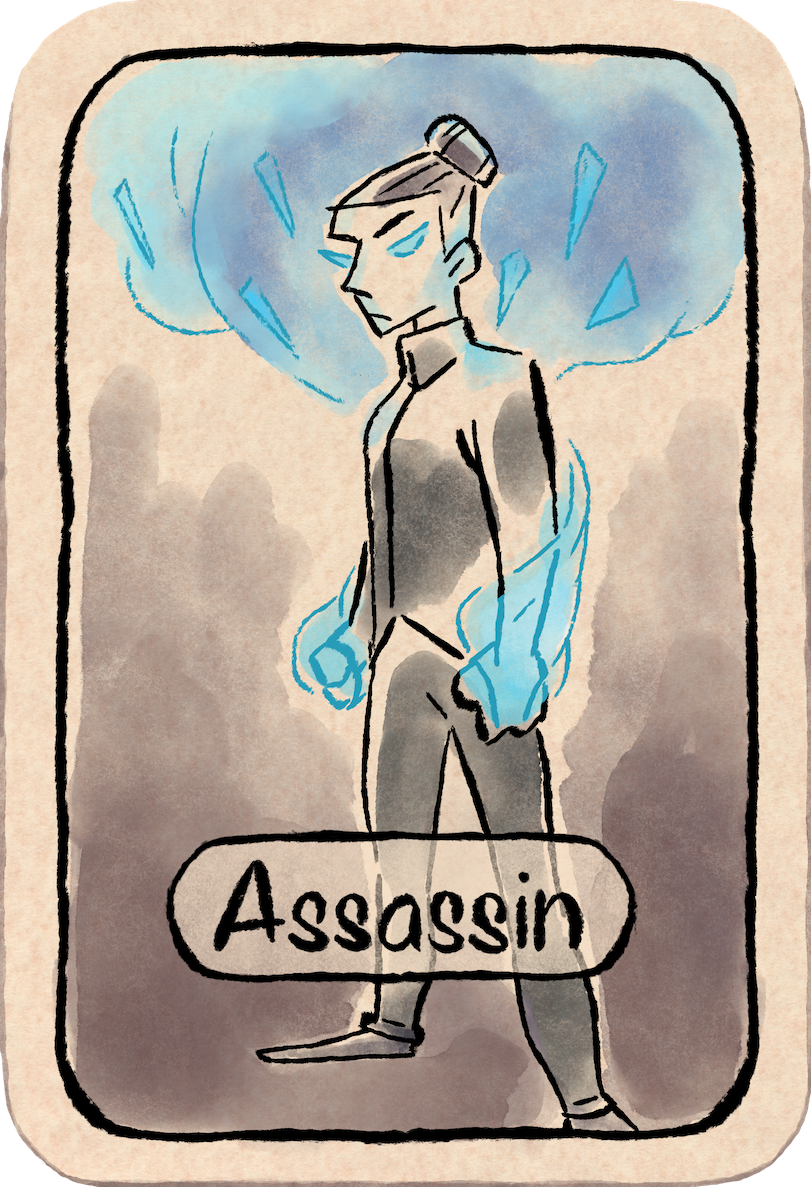
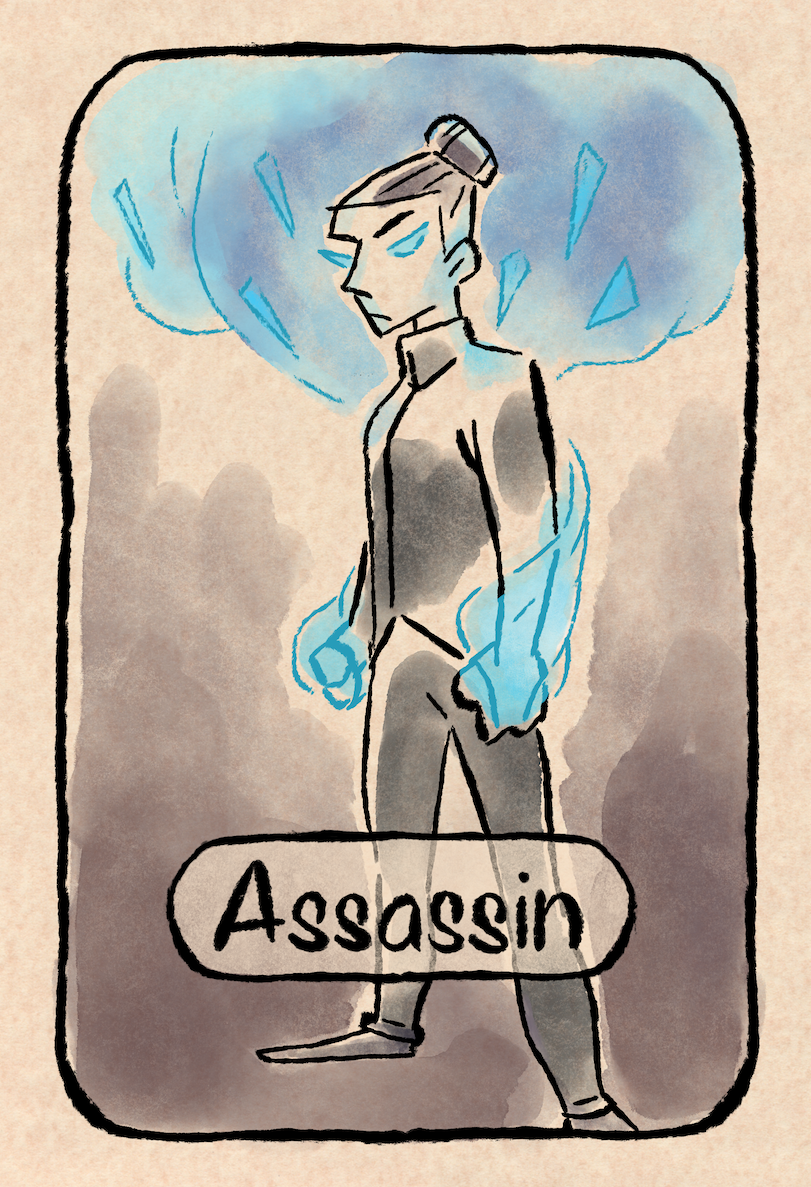
switched from ~hand cropped~ cards to using border radius

Changed region(s): [[0.0, 0.0, 1.0, 1.0]]

diff --git a/client/src/components/Opponent.svelte b/client/src/components/Opponent.svelte
@@ -51,10 +51,10 @@
         <div id="container">
             <div id="assets">
                 {#each Array($opponents[name].cards) as _, i (i)}
-                    <img transition:fade animate:flip src="/assets/cards/back.png" alt="card back" style="--num-images: {Array($opponents[name].cards).length + $opponents[name].revealed_cards.length};">
+                    <img class="card" transition:fade animate:flip src="/assets/cards/back.png" alt="card back" style="--num-images: {Array($opponents[name].cards).length + $opponents[name].revealed_cards.length};">
                 {/each}
                 {#each $opponents[name].revealed_cards as card, i (i)}
-                    <img transition:fade animate:flip src="/assets/cards/{card}.png" alt="{card}" style="--num-images: {Array($opponents[name].cards).length + $opponents[name].revealed_cards.length};">
+                    <img class="card" transition:fade animate:flip src="/assets/cards/{card}.png" alt="{card}" style="--num-images: {Array($opponents[name].cards).length + $opponents[name].revealed_cards.length};">
                 {/each}
                 <img class="coins" src="/assets/coins/{$opponents[name].coins}.png" alt="{$opponents[name].coins} coins">
             </div>
@@ -180,9 +180,15 @@
     }
 
     img {
-        padding: .5vw;
+        margin: .5vw;
         max-width: calc(80% / var(--num-images));
         max-height: 170px;
+    }
+
+    .card {
+        border-radius: 20px;
+        border: 1px solid rgba(181, 163, 149, 0.8);
+        border-bottom: 2px solid rgba(181, 163, 149, 0.8);
     }
 
     @media (max-aspect-ratio: 6/8) {

diff --git a/client/src/pages/Game.svelte b/client/src/pages/Game.svelte
@@ -411,10 +411,10 @@
 			<h2>{$player.name}</h2>
 			<hr>
 			{#each $player.cards as card, i (i)} 
-				<img transition:fade animate:flip src="/assets/cards/{card}.png" alt="{card}">
+				<img class="card" transition:fade animate:flip src="/assets/cards/{card}.png" alt="{card}">
 			{/each}
 			{#each $player.lost_cards as card, i (i)} 
-				<img transition:fade animate:flip src="/assets/cards/{card}.png" alt="{card}" style="opacity: .5;">
+				<img class="card" transition:fade animate:flip src="/assets/cards/{card}.png" alt="{card}" style="opacity: .5;">
 			{/each}
 			<img id="coins" src="/assets/coins/{$player.coins}.png" alt="{$player.coins} coins">
 
@@ -461,7 +461,7 @@
 
 	img {
 		max-width: calc(80%/2);
-		padding: .5vw;
+		margin: .5vw;
 	}
 
 	hr {
@@ -554,6 +554,12 @@
 
 	.opponents2, .opponents3, .opponents4, .opponents5 { 
 		display: contents; 
+	}
+
+	.card {
+		border-radius: 20px;
+		border: 1px solid rgba(181, 163, 149, 0.8);
+		border-bottom: 2px solid rgba(181, 163, 149, 0.8);
 	}
 
 	#coins {
